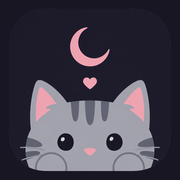
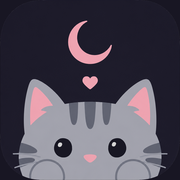
图标贴边放大 + 待排卵文案 + 症状项数转紫
- App 图标裁掉透明边、navy 底填满四边，内容放大 ~11%（gen-icons.py 改裁 alpha bbox）
- 预测经期排卵未定时文案 排卵中… → 待排卵
- 今日症状卡项数 sym-count 粉 → 晚饭后紫
- sw.js v32→v33

https://claude.ai/code/session_01XES1chv5BAqvQeBhqiBFyw

diff --git a/js/app.js b/js/app.js
@@ -219,7 +219,7 @@ function renderStats() {
       ? n > 0 ? `还有 ${n} 天` : '就这几天'
       : `${md(predictedPeriod.start)}~${md(predictedPeriod.end)}`;
   } else {
-    $('stat-predict').textContent = ovulationPending ? '排卵中…' : '—';
+    $('stat-predict').textContent = ovulationPending ? '待排卵' : '—';
   }
 
   // 栏三：今日症状 N 项 / 严重度三档

diff --git a/css/style.css b/css/style.css
@@ -918,8 +918,8 @@ header.topbar {
 .sym-count {
   font-size: 12px;
   font-weight: 700;
-  color: var(--accent-deep);
-  background: var(--accent-soft);
+  color: #7a68c8; /* 晚饭后紫，与症状泡泡一致 */
+  background: rgba(157, 143, 224, 0.18);
   border-radius: 999px;
   padding: 2px 10px;
 }

diff --git a/sw.js b/sw.js
@@ -1,6 +1,6 @@
 // Tabby service worker · app shell cache-first
 // ⚠ 改了任何前端文件后必须 bump 这个版本号，否则旧缓存不会更新。
-const CACHE = 'tabby-shell-v32';
+const CACHE = 'tabby-shell-v33';
 
 const SHELL = [
   './',

diff --git a/icons/gen-icons.py b/icons/gen-icons.py
@@ -1,23 +1,30 @@
-# 生成 Tabby 图标：由用户提供的源图 source-icon.png（带透明边的 squircle，
-# navy 底 + 灰虎斑猫 + 月亮+爱心）派生各尺寸。
+# 生成 Tabby 图标：由用户提供的源图 source-icon.png 派生各尺寸。
+# 源图是带透明边的 squircle；这里裁掉透明边、navy 底填满到四边
+# （深蓝紫背景框贴合边缘，内容随之放大），iOS/桌面自行倒角。
 # 用法：python3 icons/gen-icons.py（在仓库根目录执行）
 from PIL import Image
 
 NAVY = (24, 22, 35)  # squircle 底色（采样自源图边缘）
 src = Image.open('icons/source-icon.png').convert('RGBA')
 
-def flatten(size):
-    # 透明角填 navy → 满幅方图，iOS/桌面自行倒角
-    bg = Image.new('RGBA', src.size, NAVY + (255,))
-    bg.alpha_composite(src)
-    return bg.convert('RGB').resize((size, size), Image.LANCZOS)
+# 裁掉四周透明边，让内容贴合方框
+bbox = src.getchannel('A').point(lambda a: 255 if a > 20 else 0).getbbox()
+trimmed = src.crop(bbox)
+
+def flatten(content, size, pad=0):
+    side = max(content.size)
+    canvas = Image.new('RGBA', (side, side), NAVY + (255,))
+    inner = content
+    if pad:  # 缩进留安全区（maskable 用）
+        s = int(side * (1 - pad * 2))
+        inner = content.resize((s, s), Image.LANCZOS)
+    off = ((side - inner.size[0]) // 2, (side - inner.size[1]) // 2)
+    canvas.alpha_composite(inner, off)
+    return canvas.convert('RGB').resize((size, size), Image.LANCZOS)
 
 for size, name in [(180, 'icon-180.png'), (192, 'icon-192.png'), (512, 'icon-512.png')]:
-    flatten(size).save(f'icons/{name}')
+    flatten(trimmed, size).save(f'icons/{name}')
 
-# maskable：内容缩到 80% 安全区，navy 满底（Android 圆形遮罩用）
-mask = Image.new('RGBA', (512, 512), NAVY + (255,))
-inner = src.resize((410, 410), Image.LANCZOS)
-mask.alpha_composite(inner, (51, 51))
-mask.convert('RGB').save('icons/icon-maskable-512.png')
-print('icons generated from source-icon.png')
+# maskable：navy 满底（贴四边）+ 内容留 12% 安全区（Android 圆形遮罩）
+flatten(trimmed, 512, pad=0.12).save('icons/icon-maskable-512.png')
+print('icons generated from source-icon.png (trimmed to edges)')
